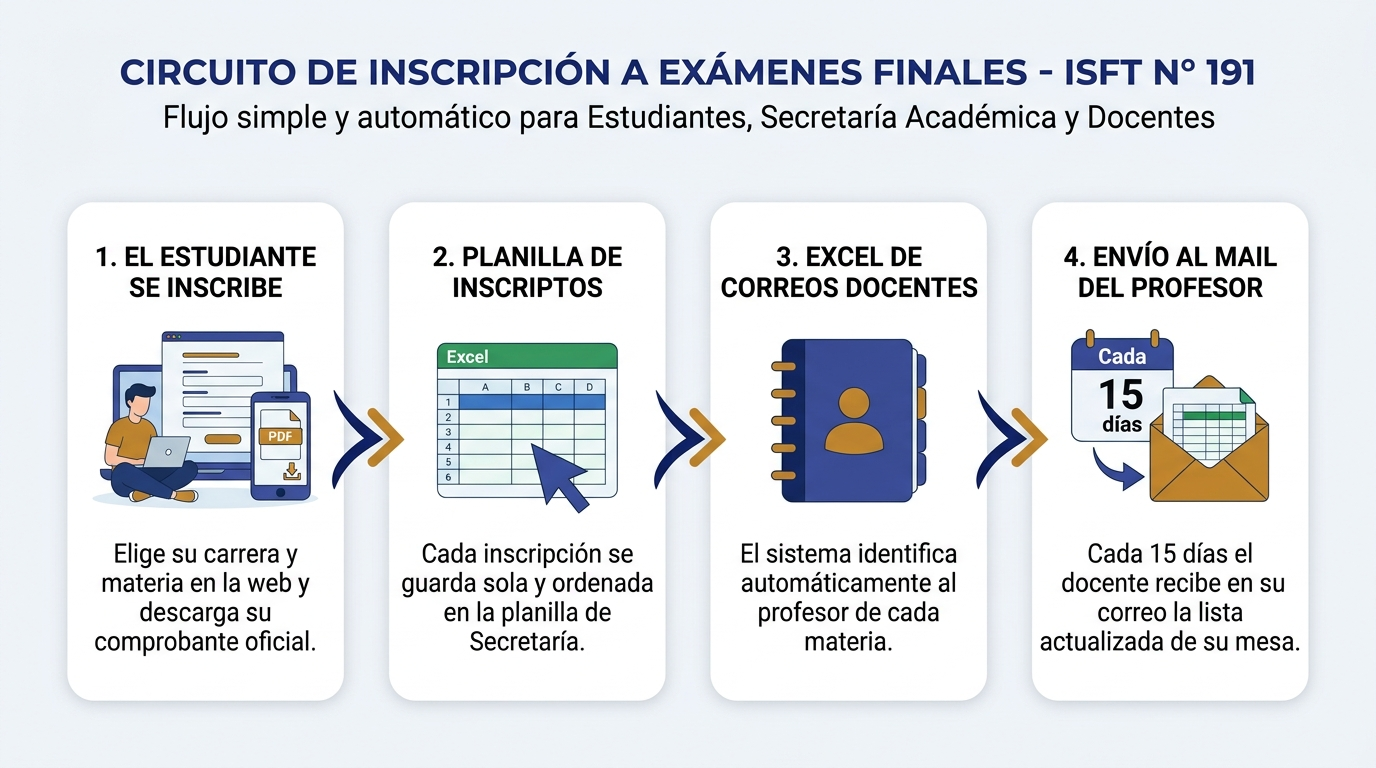
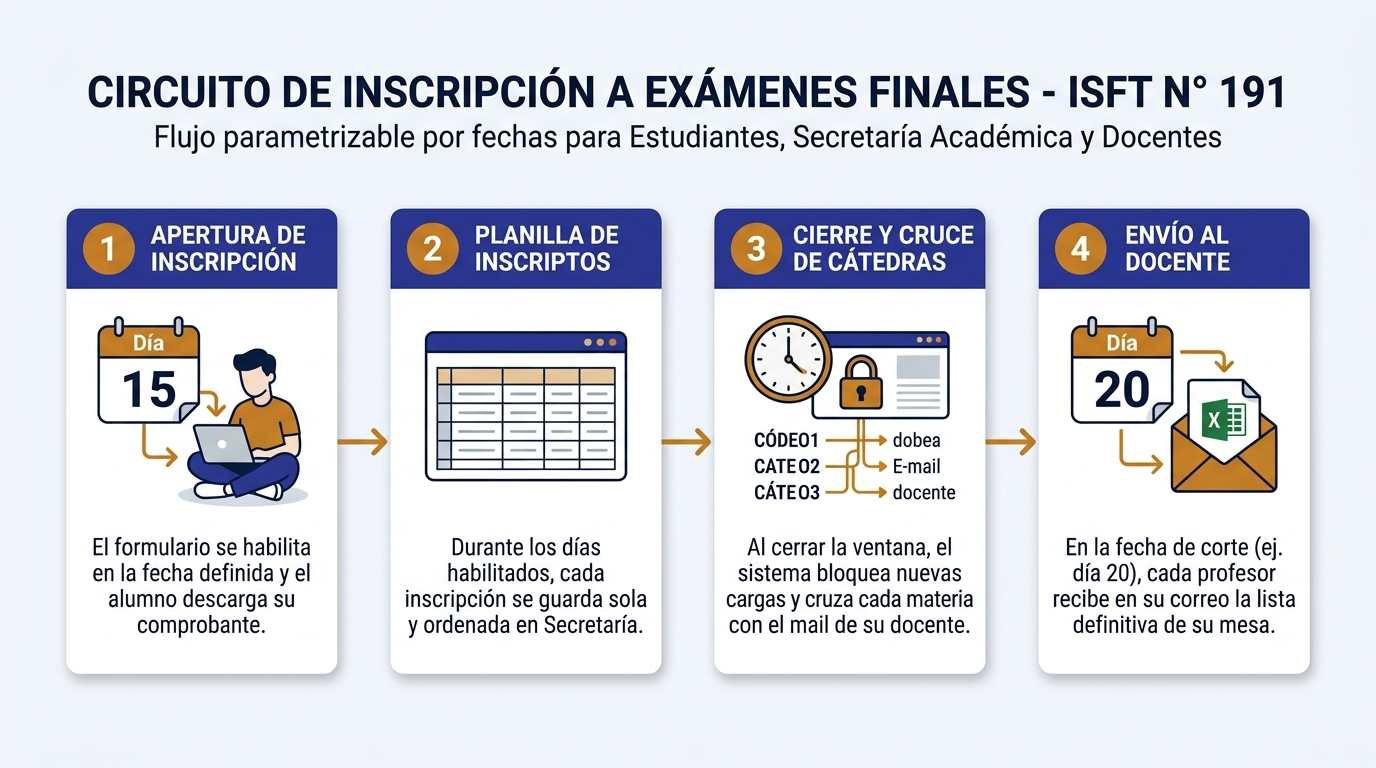
docs(readme): update executive infographic and document Configuracion_Turnos sheet

diff --git a/README.md b/README.md
@@ -52,14 +52,14 @@ Cada solicitud se valida contra el padrón curricular oficial e impacta tanto en
 
 ## 3. Arquitectura del Sistema, Flujo de Planillas Excel y Modelo de Concurrencia
 
-### 3.0 Circuito Ejecutivo (Vista para Directivos, Secretarios y Docentes)
+### 3.0 Circuito Ejecutivo Parametrizable (Vista para Directivos, Secretarios y Docentes)
 
 ![Circuito Ejecutivo de Inscripción a Exámenes Finales - ISFT N° 191](./public/docs/circuito-ejecutivo-isft191.jpg)
 
-1. **El Estudiante se inscribe:** Completa el formulario en 2 pasos desde su celular o PC y descarga su comprobante individual en PDF (`SHA-256`). No tiene acceso a las planillas de otros alumnos.
-2. **Planilla Oficial de Inscriptos (`Inscripciones_Finales`):** Cada inscripción se guarda automáticamente sin duplicados (`DNI + Materia`) y con hora oficial **`America/Argentina/Buenos_Aires (GMT-3)`**.
-3. **Excel de Correos Docentes (`Directorio_Docentes`):** Contiene las 211 materias de las 8 carreras vinculadas con su respectivo `Docente + Nombre de Materia` y dirección de correo electrónico.
-4. **Envío Quincenal al Profesor:** Cada 15 días (o al presionar `1. Enviar Nóminas a Docentes Ahora` en el menú `ISFT 191 - Secretaría`), cada docente recibe en su correo únicamente la tabla y el archivo Excel/CSV adjunto de los alumnos anotados en su materia.
+1. **Apertura de Inscripción (Ej. Día 15):** El formulario web se habilita automáticamente en la fecha configurada por Secretaría. El estudiante se inscribe en 2 pasos y descarga su comprobante en PDF (`SHA-256`).
+2. **Planilla Oficial de Inscriptos (`Inscripciones_Finales`):** Durante los días habilitados (ej. del 15 al 19), cada inscripción se guarda automáticamente sin duplicados (`DNI + Materia`) y con hora oficial **`America/Argentina/Buenos_Aires (GMT-3)`**.
+3. **Cierre y Cruce con Cátedras (`Directorio_Docentes`):** Al finalizar la ventana, el sistema bloquea nuevas inscripciones fuera de término y cruza cada materia con el correo de su respectivo `Docente + Nombre de Materia`.
+4. **Envío Automático al Docente (Ej. Día 20):** En el día de corte configurado en la pestaña `Configuracion_Turnos` (ej. día 20 a las 08:00 hs, o manualmente desde el menú `ISFT 191 - Secretaría`), cada docente recibe en su correo únicamente la tabla y el archivo Excel/CSV adjunto de su materia.
 
 ### 3.1 Flujo Técnico General y Automatización de Envío a Docentes (`flowchart TD`)
 
@@ -132,13 +132,14 @@ sequenceDiagram
 
 ### 3.3 Estructura de las Planillas Excel en el Flujo (`ISFT191_Padron_Docentes_e_Inscripciones.xlsx`)
 
-El archivo maestro generado por [`scripts/generate-poc-excel.mjs`](./scripts/generate-poc-excel.mjs) (y sincronizado en Google Drive) articula 3 tablas de datos:
+El archivo maestro generado por [`scripts/generate-poc-excel.mjs`](./scripts/generate-poc-excel.mjs) (y sincronizado en Google Drive) articula 4 tablas de datos:
 
 | Planilla / Pestaña | Rol en el Flujo | Columnas Oficiales |
 | :--- | :--- | :--- |
-| **1. `Directorio_Docentes`** | Maestro de cátedras (211 filas precargadas) usado para saber a qué correo enviar cada mesa. | `Carrera_Codigo`, `Carrera_Nombre`, `Resolucion`, `Anio_Plan`, `Materia_Codigo`, `Materia_Nombre`, `Docente_Titular` (`Docente + Materia`), `Email_Docente`, `Envio_Activo`, `Frecuencia` |
-| **2. `Inscripciones_Finales`** | Padrón consolidado donde impacta cada `POST` del alumno con deduplicación por `DNI + Materia_Codigo`. | `ID Comprobante`, `Fecha y Hora (GMT-3)`, `Apellido y Nombre`, `DNI`, `Teléfono`, `Correo Electrónico`, `Cohorte`, `Carrera_Codigo`, `Carrera_Nombre`, `Año de la Materia`, `Código Materia`, `Asignatura a Rendir`, `Modalidad Examen`, `Año de Cursada`, `Docente Cátedra`, `Estado Envío Docente` |
-| **3. `Nomina_Inscriptos_<CODIGO>.csv`** | Archivo compatible con Excel generado dinámicamente y enviado como adjunto al correo de cada profesor. | `Comprobante_ID`, `Fecha_Inscripcion`, `DNI`, `Apellido_y_Nombre`, `Condicion`, `Anio_Cursada`, `Cohorte_Ingreso`, `Correo_Alumno`, `Telefono`, `Docente_Catedra` |
+| **1. `Configuracion_Turnos`** | Panel sin código para que Secretaría defina el día de apertura (ej. `15`), cierre (`19`) y disparo de mails a docentes (`20`). | `Parámetro` (`MODO_VENTANA`, `DIA_APERTURA`, `DIA_CIERRE`, `DIA_ENVIO_DOCENTES`, `HORA_ENVIO_DOCENTES`), `Valor`, `Descripción` |
+| **2. `Directorio_Docentes`** | Maestro de cátedras (211 filas precargadas) usado para saber a qué correo enviar cada mesa. | `Carrera_Codigo`, `Carrera_Nombre`, `Resolucion`, `Anio_Plan`, `Materia_Codigo`, `Materia_Nombre`, `Docente_Titular` (`Docente + Materia`), `Email_Docente`, `Envio_Activo`, `Frecuencia` |
+| **3. `Inscripciones_Finales`** | Padrón consolidado donde impacta cada `POST` del alumno con deduplicación por `DNI + Materia_Codigo`. | `ID Comprobante`, `Fecha y Hora (GMT-3)`, `Apellido y Nombre`, `DNI`, `Teléfono`, `Correo Electrónico`, `Cohorte`, `Carrera_Codigo`, `Carrera_Nombre`, `Año de la Materia`, `Código Materia`, `Asignatura a Rendir`, `Modalidad Examen`, `Año de Cursada`, `Docente Cátedra`, `Estado Envío Docente` |
+| **4. `Nomina_Inscriptos_<CODIGO>.csv`** | Archivo compatible con Excel generado dinámicamente y enviado como adjunto al correo de cada profesor el día de corte. | `Comprobante_ID`, `Fecha_Inscripcion`, `DNI`, `Apellido_y_Nombre`, `Condicion`, `Anio_Cursada`, `Cohorte_Ingreso`, `Correo_Alumno`, `Telefono`, `Docente_Catedra` |
 
 ### 3.4 Mapeo a Figma: Investigación UX, User Personas, Branding Kit, Design System y Wireframes
 
